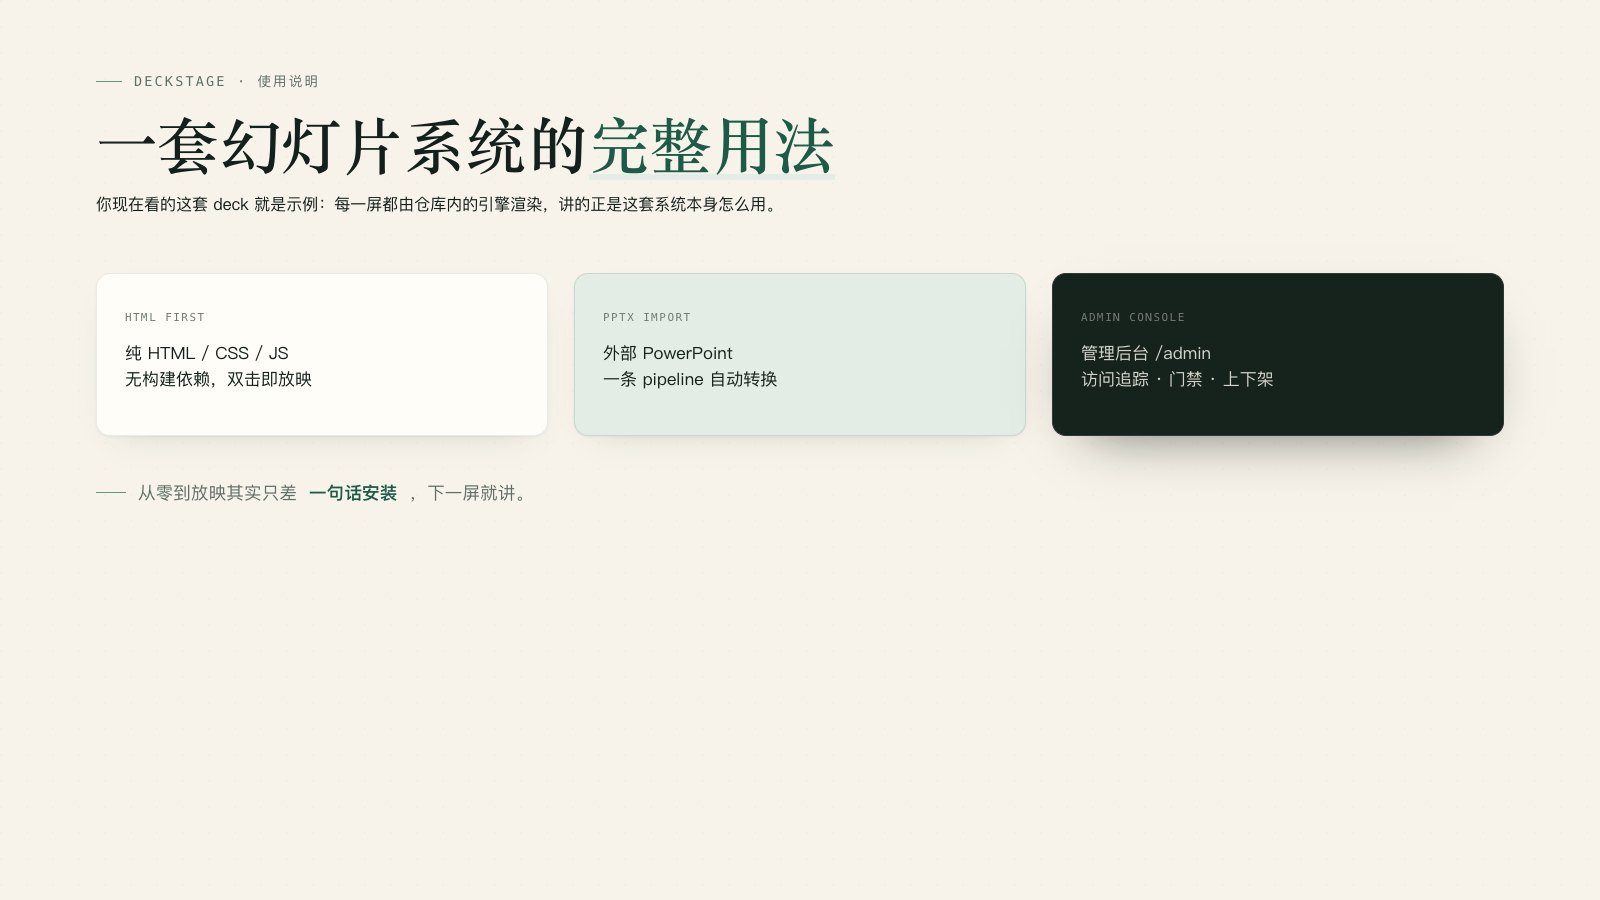
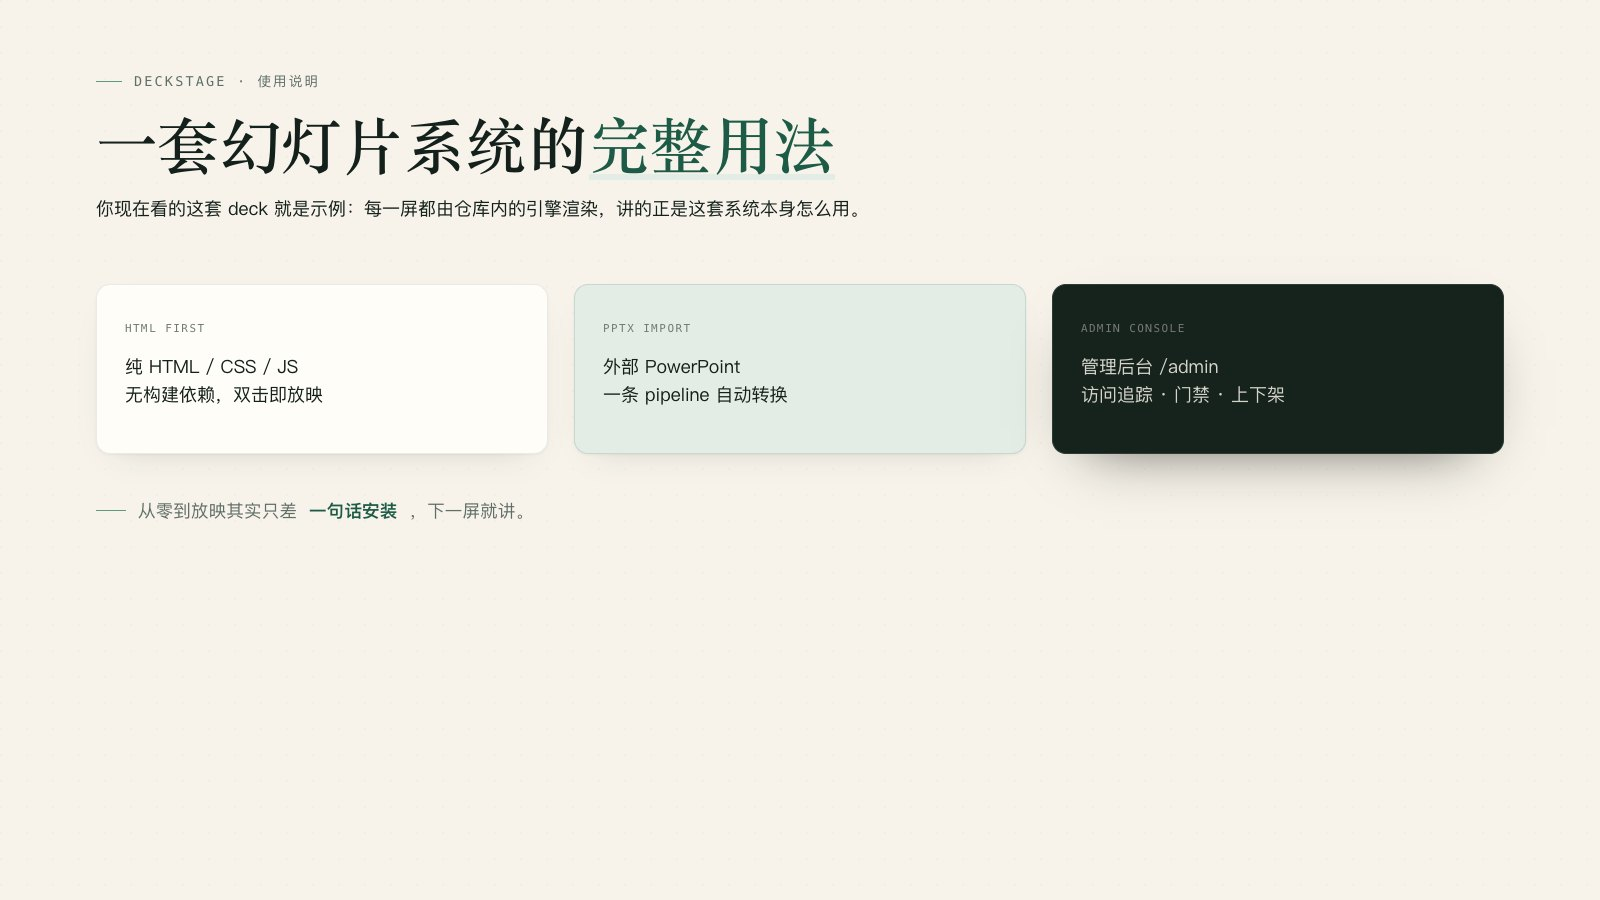
docs: 示例 deck 正文字号对齐 v1.4.1 规则

diff --git a/decks/sample-deck/index.html b/decks/sample-deck/index.html
@@ -1236,6 +1236,12 @@ html[data-dtheme="ink-dark"] .ax-matrix__head { color: var(--ink-3); }
     .cover__stat { display: flex; align-items: baseline; gap: 8px; }
     .cover__stat b { font: 600 38px var(--font-mono); color: var(--green); }
     .cover__stat i { font: 12.5px/1.4 var(--font-sans); font-style: normal; color: var(--ink-3); }
+
+/* ---- 99-readability.html ---- */
+/* 可读性下限：示例 deck 的主说明 18px；文档索引等密集卡片保持原字号 */
+#s01 .kv__v, #s05 .kv__v, #s10 .kv__v { font-size: 18px !important; line-height: 1.55 !important; }
+.sub { font-size: 18px !important; line-height: 1.6 !important; }
+body.ratio-4x3 .sub { font-size: 16px !important; line-height: normal !important; }
 </style>
   <style>
 /* ===== _shared/deck.css（构建内联，改 src/css/deck.css 后重跑 build） ===== */

diff --git a/src-sample/slides/99-readability.html b/src-sample/slides/99-readability.html
@@ -1,0 +1,6 @@
+<style>
+/* 可读性下限：示例 deck 的主说明 18px；文档索引等密集卡片保持原字号 */
+#s01 .kv__v, #s05 .kv__v, #s10 .kv__v { font-size: 18px !important; line-height: 1.55 !important; }
+.sub { font-size: 18px !important; line-height: 1.6 !important; }
+body.ratio-4x3 .sub { font-size: 16px !important; line-height: normal !important; }
+</style>
